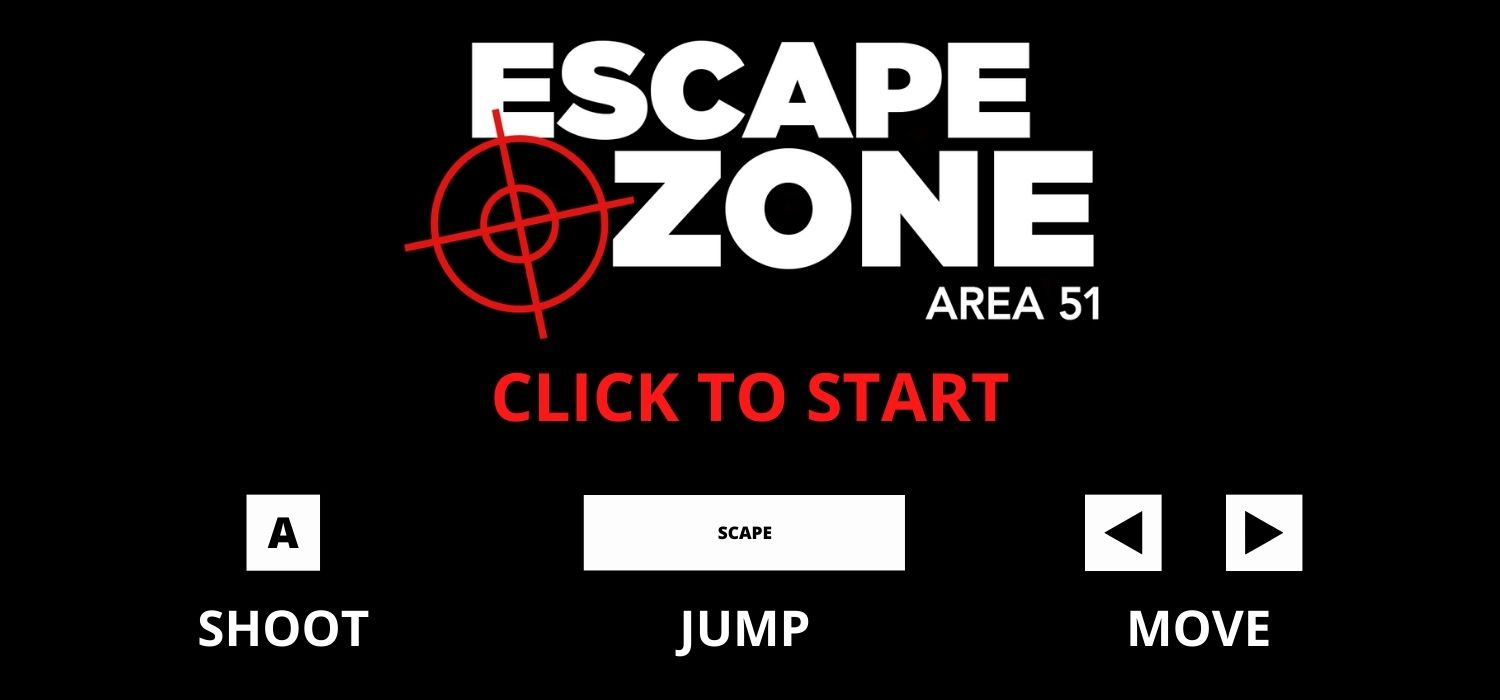
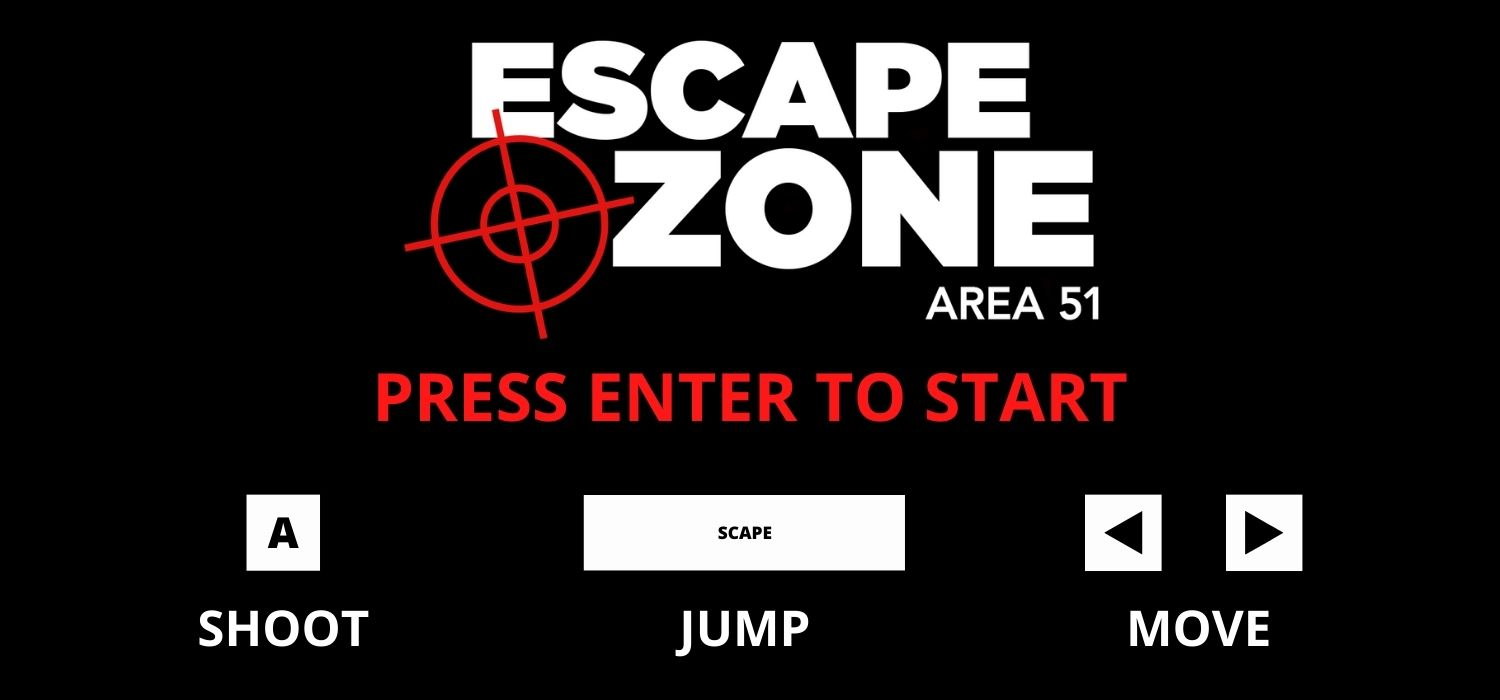
enter

Changed region(s): [[0.2453, 0.51, 0.7667, 0.63]]

diff --git a/js/index.js b/js/index.js
@@ -2,10 +2,12 @@ const img = document.querySelector('img')
 const canvas = document.querySelector('canvas')
 
 
-document.addEventListener('click', () => {
-    img.classList.add('d-none')
-    canvas.classList.remove('d-none')
-    controlerApp.init()
+document.addEventListener('keydown', event => {
+    if (event.code === "Enter") {
+        img.classList.add('d-none')
+        canvas.classList.remove('d-none')
+        controlerApp.init()
+    }
 })
 
 
